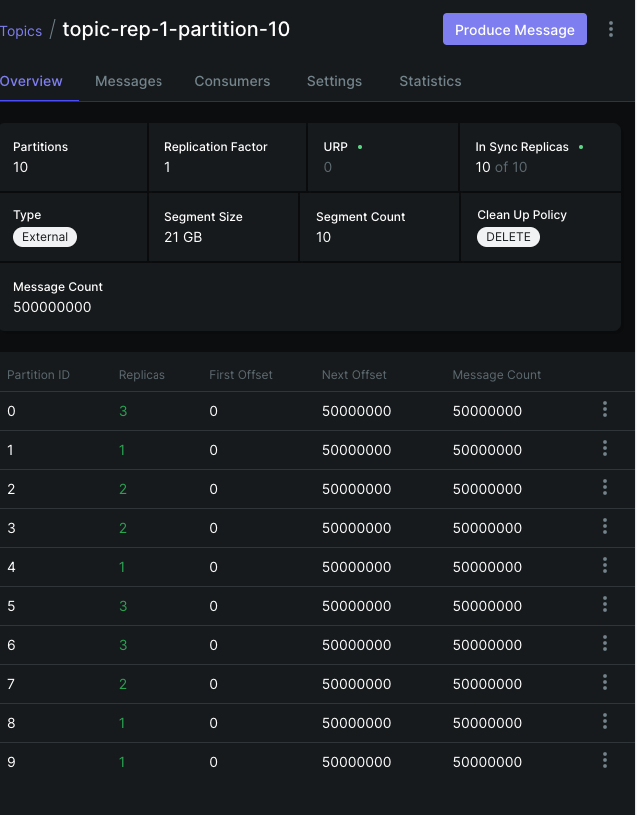
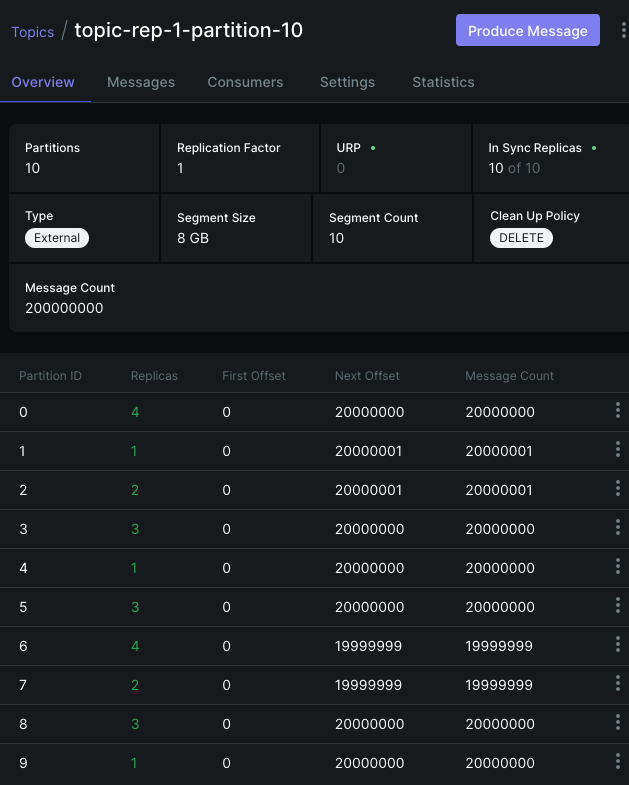
a

diff --git a/packages/apps/src/blog/2024-08-07-Kafka-producer-da-khong-con-Round-Robin-Partition-voi-key-null.md b/packages/apps/src/blog/2024-08-07-Kafka-producer-da-khong-con-Round-Robin-Partition-voi-key-null.md
@@ -884,8 +884,8 @@ public class CalPartitionLoad {
 
 ## Thử nghiệm
 Thông tin thử nghiệm:
-- Gửi 500 triệu data
-- 3 node
+- Gửi 200 triệu data
+- 4 node
 - 10 partition
 - image docker confluentinc/cp-kafka:7.4.4 , kafka server version: 3.5.0
 - Hardware Overview:
@@ -906,12 +906,15 @@ kafka-topics --bootstrap-server kafka1:19092 --create --if-not-exists --topic to
 - Node Info ([Xem full tại đây](/blog/2024-08-07-Kafka-producer-da-khong-con-Round-Robin-Partition-voi-key-null/docker-compose-node-test.yml))
 ```
 Node 1: 
-- 0.1 cpu
+- 0.3 cpu
 - 3g RAM
 Node 2: 
 - 2 cpu
 - 3g RAM
 Node 3: 
+- 3 cpu
+- 3g RAM
+Node 4: 
 - 3 cpu
 - 3g RAM
 ```
@@ -921,7 +924,7 @@ Node 3:
 
         final var props = new Properties();
         props.setProperty(ProducerConfig.CLIENT_ID_CONFIG, "java-producer-producerRecordPartition-KeyNotNull");
-        props.setProperty(ProducerConfig.BOOTSTRAP_SERVERS_CONFIG, "localhost:29092,localhost:29093");
+        props.setProperty(ProducerConfig.BOOTSTRAP_SERVERS_CONFIG, "localhost:29091,localhost:29092,localhost:29093");
         props.setProperty(ProducerConfig.KEY_SERIALIZER_CLASS_CONFIG, StringSerializer.class.getName());
         props.setProperty(ProducerConfig.VALUE_SERIALIZER_CLASS_CONFIG, StringSerializer.class.getName());
         // Khi tong so luong data gui = BATCH_SIZE_CONFIG thi se tinh toan lai partition moi
@@ -956,17 +959,18 @@ Node 3:
 
 ### Kafka Producer Partitioning (phiên bản <= 2.3.1):
 - Phiên bản sử dụng : kafka-clients-2.3.1
-- Tổng thời gian chạy là 2086184ms = 34.769733333 phút
+- Tổng thời gian chạy là 191392ms = 3.1898666667 phút
 - ![test-1.png](images/2024-08-07-Kafka-producer-da-khong-con-Round-Robin-Partition-voi-key-null/test-1.png)
 - Do có node 1 chậm(Chỉ 0.1 CPU) nên thời gian hoàn thành lên đến hơn 30 phút, tuy nhiên các partition được cân bằng Round Robin
 ### Kafka Producer Sticky Partitioning (phiên bản 2.4.0 đến 3.2.3):
 - Phiên bản sử dụng : kafka-clients-3.2.3
-- Tổng thời gian chạy là 476988ms = 7.9498 phút
+- Tổng thời gian chạy là 250148ms = 4.1691333333 phút
 - ![test-2.png](images/2024-08-07-Kafka-producer-da-khong-con-Round-Robin-Partition-voi-key-null/test-2.png)
 ### Kafka Producer Partitioning (phiên bản 3.3.0 trở lên):
 - Phiên bản sử dụng : kafka-clients-3.8.0
-- Tổng thời gian chạy là 301320ms = 5.022 phút
+- Tổng thời gian chạy là 175633ms = 2.9272166667 phút
 - ![test-3.png](images/2024-08-07-Kafka-producer-da-khong-con-Round-Robin-Partition-voi-key-null/test-3.png)
+- ![test-3-1.png](images/2024-08-07-Kafka-producer-da-khong-con-Round-Robin-Partition-voi-key-null/test-3-1.png)
 ## tổng kết
 ### Kafka Producer Partitioning (phiên bản <= 2.3.1):
 Trước phiên bản 2.3.1, khi key null, Kafka producer sử dụng thuật toán "Round Robin Partition" để chọn phân vùng. Các record sẽ được phân phối lần lượt giữa các partition.
